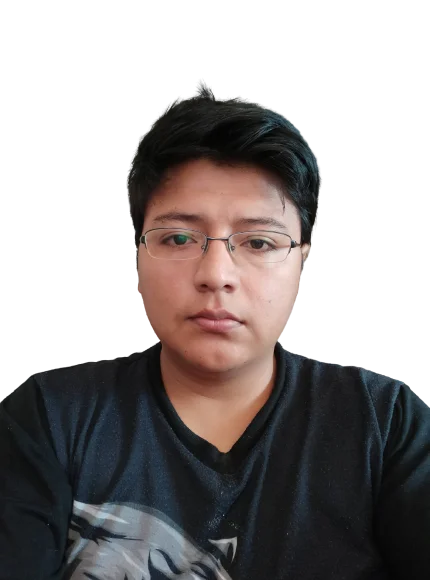
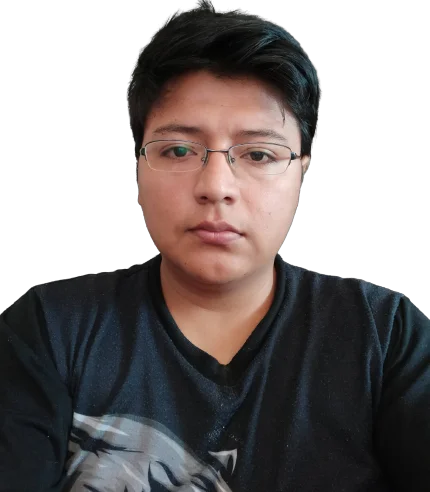
ingreso de imagen

diff --git a/src/app/layout/pages/skeleton-page/skeleton-page.component.html b/src/app/layout/pages/skeleton-page/skeleton-page.component.html
@@ -6,10 +6,10 @@
     <layout-menu (classSticky)="addClassSticky($event)"></layout-menu>
   </div>
 
-  <div class="mx-4 flex-grow sm:mx-24">
+  <div class="mx-4 flex-grow sm:mx-24 xl:mx-80">
     <router-outlet />
   </div>
-  <div class="mx-4 sm:mx-24">
+  <div class="mx-4 sm:mx-24 xl:mx-80">
     <layout-footer />
   </div>
 </div>

diff --git a/src/app/modules/home/pages/home-page/home-page.component.html b/src/app/modules/home/pages/home-page/home-page.component.html
@@ -1,1 +1,4 @@
-<div class="flex flex-wrap"><home-image-perfil /><home-intro /></div>
+<div class="flex flex-wrap items-center justify-center">
+  <home-image-perfil class="w-44 h-52 p-2 md:w-1/3 md:h-auto lg:w-5/12 lg:h-auto" />
+  <home-intro class="w-full md:w-4/6 lg:w-7/12" />
+</div>

diff --git a/src/app/layout/components/menu/menu.component.html b/src/app/layout/components/menu/menu.component.html
@@ -1,4 +1,4 @@
-<nav class="h-12 sm:mx-24 sm:h-auto">
+<nav class="h-12 sm:mx-24 xl:mx-80 sm:h-auto">
   <div
     class="w-7 absolute top-2 right-6 cursor-pointer z-10 sm:hidden"
     (click)="openMenu()"

diff --git a/src/app/modules/home/components/image-perfil/image-perfil.component.html b/src/app/modules/home/components/image-perfil/image-perfil.component.html
@@ -1,1 +1,5 @@
-<p>image-perfil works!</p>
+<img
+  class="w-full rounded-lg"
+  src="/assets/images/fotoPerfil.webp"
+  alt="imagen de perfil"
+/>
